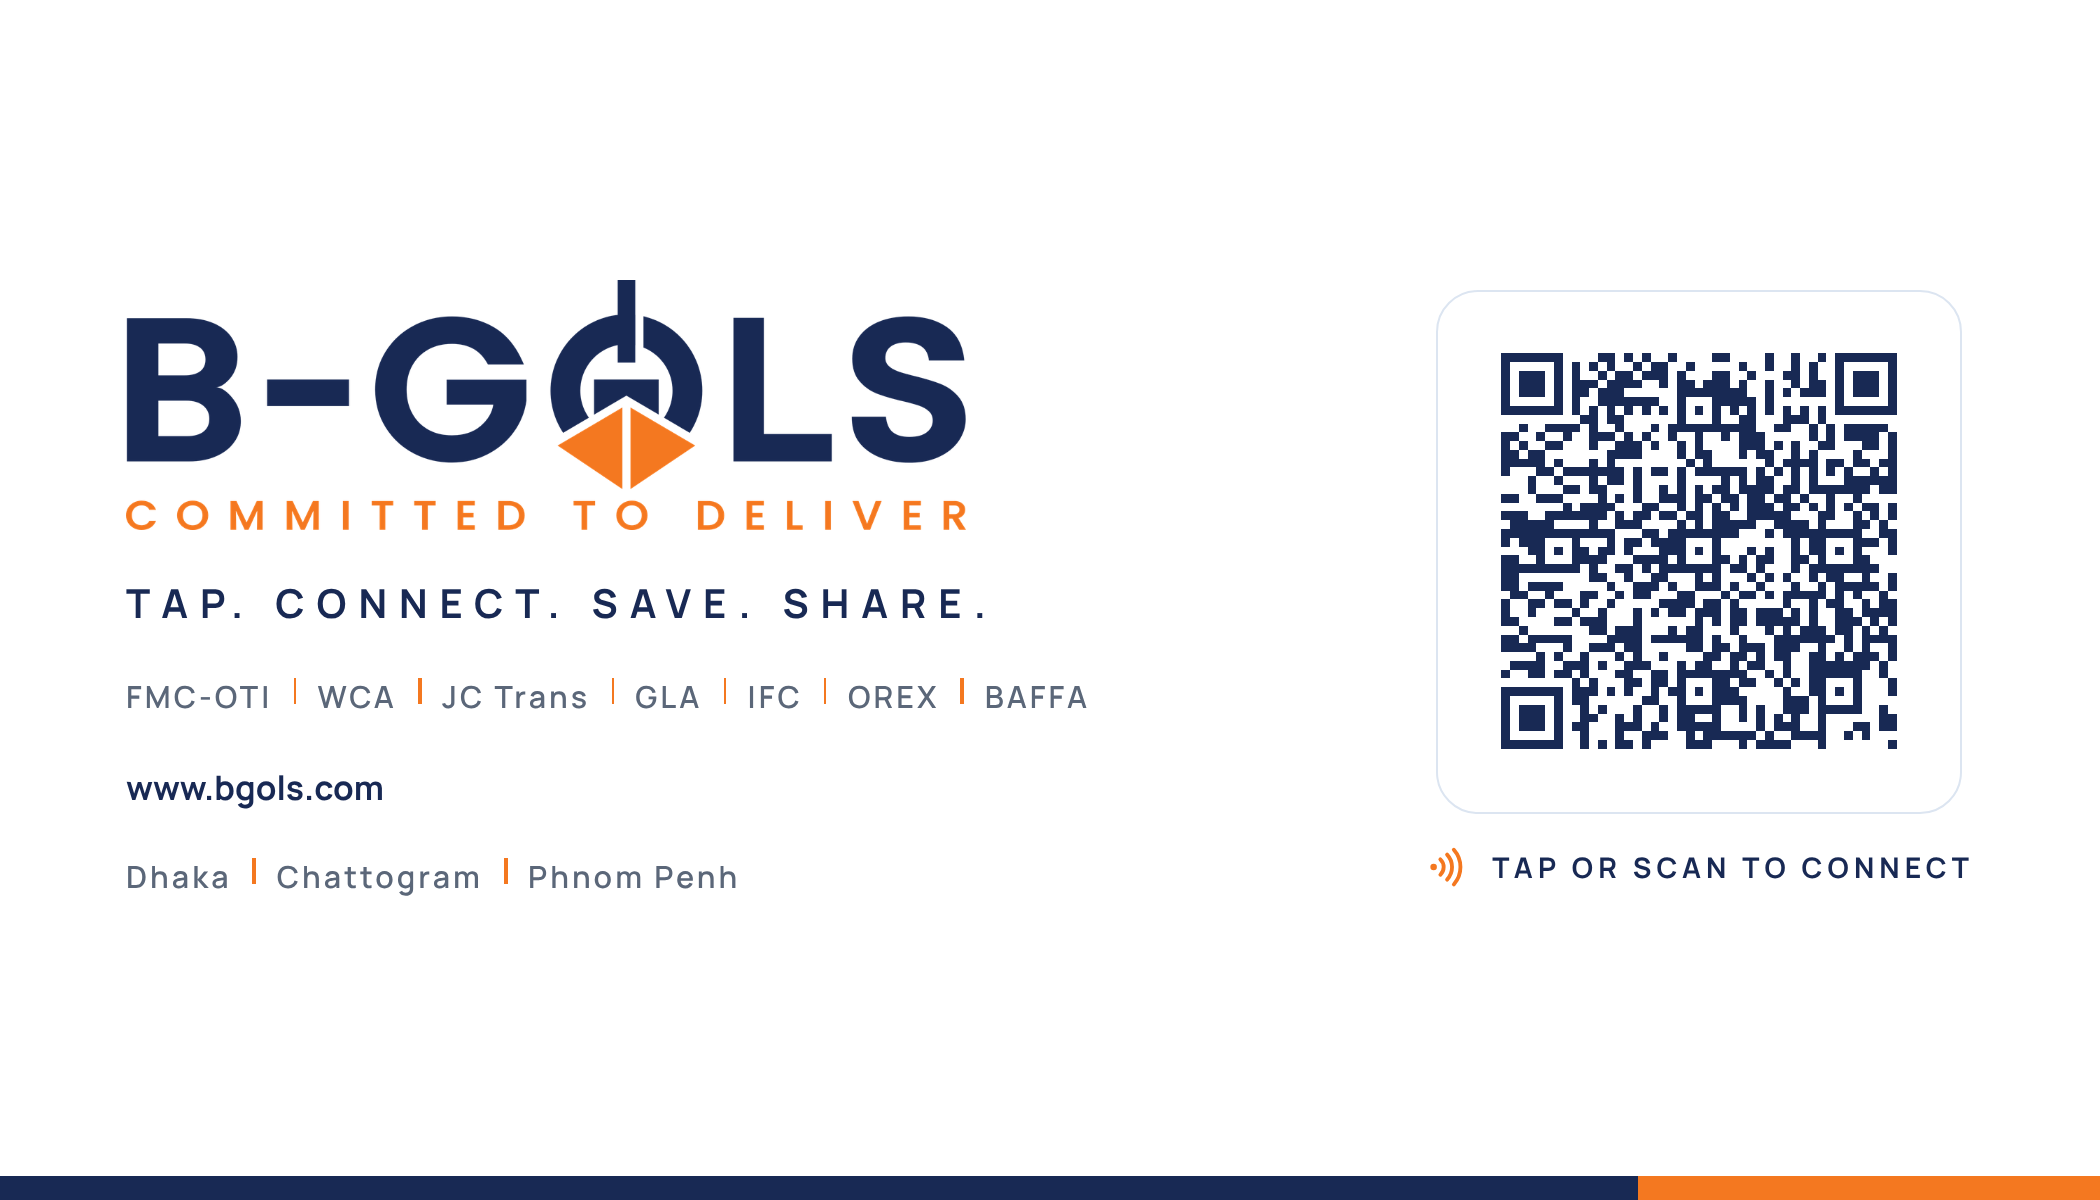
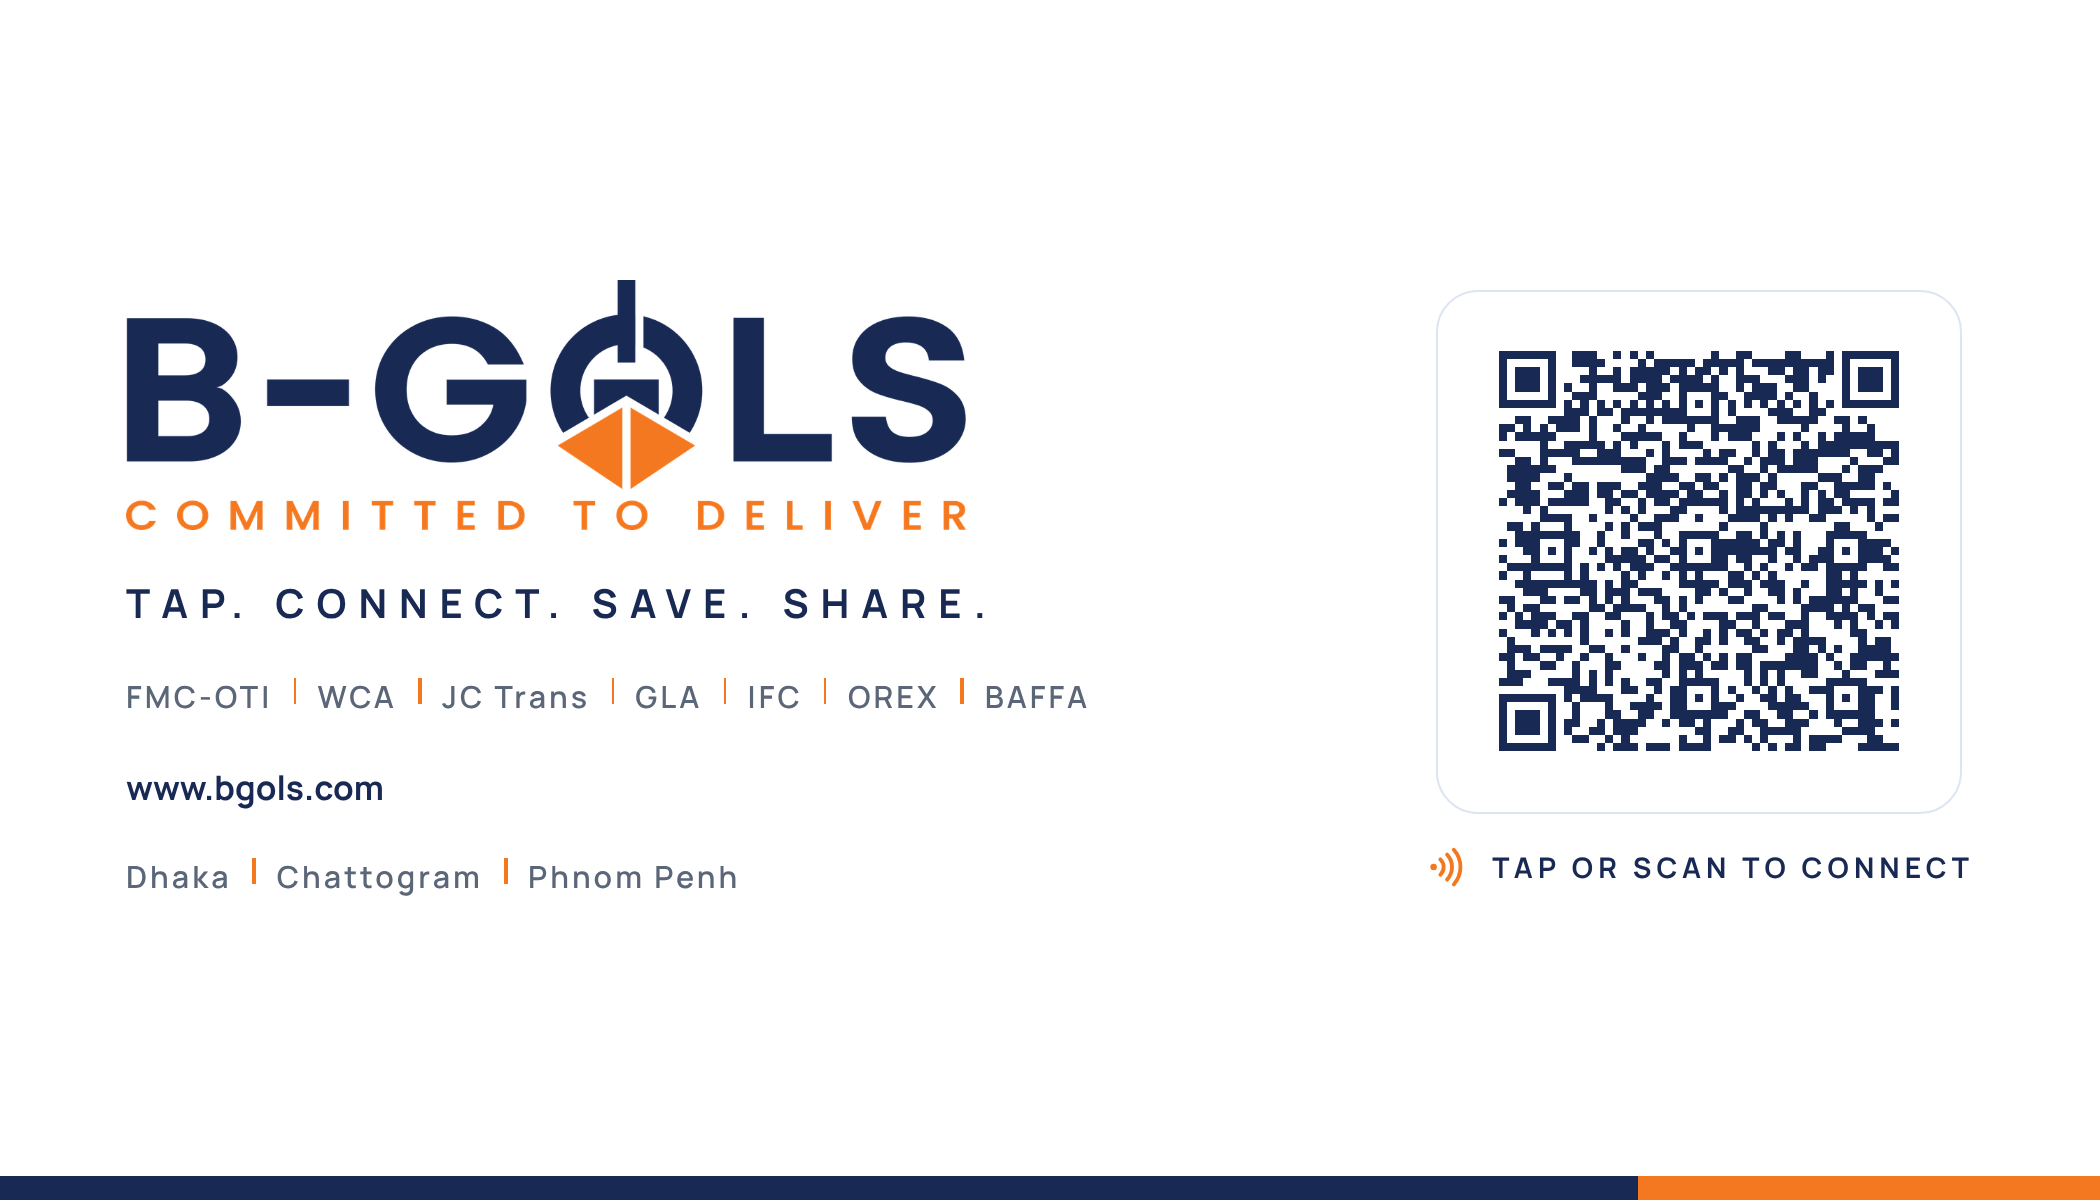
Move to bgols-limited.github.io: new QR codes, contact file, links
Claude-Session: https://claude.ai/code/session_01TprP1ieCAEd2tQhQxghHUL

Changed region(s): [[0.7119, 0.2775, 0.9286, 0.6475]]

diff --git a/index.html b/index.html
@@ -10,12 +10,12 @@
   <meta name="theme-color" content="#FFFFFF">
   <meta name="format-detection" content="telephone=no">
   <!-- build:meta (generated by scripts/build.mjs from js/config.js — do not edit by hand) -->
-  <link rel="canonical" href="https://alshams8.github.io/Business-Card-Abdullah-Al-Mohsin/">
+  <link rel="canonical" href="https://bgols-limited.github.io/Business-Card-Abdullah-Al-Mohsin/">
   <meta property="og:type" content="profile">
   <meta property="og:title" content="Abdullah Al Mohsin | Pricing &amp; Network Development Analyst | B-GOLS Limited">
   <meta property="og:description" content="Tap. Connect. Save. Share. Digital business card of Abdullah Al Mohsin, B-GOLS Limited.">
-  <meta property="og:url" content="https://alshams8.github.io/Business-Card-Abdullah-Al-Mohsin/">
-  <meta property="og:image" content="https://alshams8.github.io/Business-Card-Abdullah-Al-Mohsin/assets/exports/og-image.png">
+  <meta property="og:url" content="https://bgols-limited.github.io/Business-Card-Abdullah-Al-Mohsin/">
+  <meta property="og:image" content="https://bgols-limited.github.io/Business-Card-Abdullah-Al-Mohsin/assets/exports/og-image.png">
   <meta property="og:image:width" content="1200">
   <meta property="og:image:height" content="630">
   <meta name="twitter:card" content="summary_large_image">

diff --git a/sw.js b/sw.js
@@ -1,9 +1,9 @@
 /* Service worker: makes the card open instantly and work offline.
    Bump VERSION whenever you change any file so phones fetch the update. */
-// Cache names carry this card's own prefix: two cards share the alshams8.github.io origin,
+// Cache names carry this card's own prefix: two cards share the bgols-limited.github.io origin,
 // so each card must only ever delete its own old caches.
 const PREFIX = "mohsin-card-";
-const VERSION = PREFIX + "v8";
+const VERSION = PREFIX + "v9";
 const CORE = [
   "./", "index.html", "card.html", "nfc-setup.html", "email-signature.html", "css/styles.css", "js/config.js", "js/app.js", "contact.vcf",
   "manifest.webmanifest",

diff --git a/js/config.js b/js/config.js
@@ -6,9 +6,9 @@
  * That regenerates the QR codes, the .vcf contact file and the link-preview tags
  * so the NFC tag, QR code and contact file all point to the same address.
  *
- * GitHub Pages address of the repository alshams8/Business-Card-Abdullah-Al-Mohsin.
+ * GitHub Pages address of the repository bgols-limited/Business-Card-Abdullah-Al-Mohsin.
  * (The path is case-sensitive: keep the capital letters.)
  */
 window.CARD_CONFIG = {
-  PROFILE_URL: "https://alshams8.github.io/Business-Card-Abdullah-Al-Mohsin/"
+  PROFILE_URL: "https://bgols-limited.github.io/Business-Card-Abdullah-Al-Mohsin/"
 };

diff --git a/docs/PHONE-GUIDE.md b/docs/PHONE-GUIDE.md
@@ -1,6 +1,6 @@
 # Abdullah Al Mohsin's digital card: phone guide (Nothing CMF Phone 2 Pro, plus iPhone)
 
-Card address: **https://alshams8.github.io/Business-Card-Abdullah-Al-Mohsin/**
+Card address: **https://bgols-limited.github.io/Business-Card-Abdullah-Al-Mohsin/**
 (Keep the capital letters. The NFC tag, the QR code and the contact file all point here.)
 
 Mobile 1 **+8801335134476** (WhatsApp) · Mobile 2 **+8801766330755** (WeChat) · **abdullah.mohsin@bgols.com**
@@ -25,7 +25,7 @@ means a cheap **NFC tag**, and "tap my phone" means **NameDrop** (iPhone only).
 
 ### 1. Put the card on the Home screen (1 minute)
 
-1. Open **Chrome** and go to **https://alshams8.github.io/Business-Card-Abdullah-Al-Mohsin/**
+1. Open **Chrome** and go to **https://bgols-limited.github.io/Business-Card-Abdullah-Al-Mohsin/**
    (the page must have finished loading).
 2. Tap **⋮** (top right) › **Add to home screen**.
 3. Chrome asks **Install** or **Create shortcut**. Either works:
@@ -53,12 +53,12 @@ If nothing appears at all:
 
 - Open the card from the Home screen and tap the **QR** button (bottom right of the card), or **Show QR side**.
 - The other person points their camera at it. Any iPhone or Android camera opens the card.
-- Optional: the address with **#qr** at the end opens the QR side directly. Save **https://alshams8.github.io/Business-Card-Abdullah-Al-Mohsin/#qr** as a second Home screen shortcut called "My QR" if he likes.
+- Optional: the address with **#qr** at the end opens the QR side directly. Save **https://bgols-limited.github.io/Business-Card-Abdullah-Al-Mohsin/#qr** as a second Home screen shortcut called "My QR" if he likes.
 
 ### 4. NFC tag (works for iPhone and Android visitors)
 
 1. Buy blank **NTAG215** cards or **NTAG213** stickers.
-2. Easiest on Android: open **https://alshams8.github.io/Business-Card-Abdullah-Al-Mohsin/nfc-setup.html** in **Chrome**,
+2. Easiest on Android: open **https://bgols-limited.github.io/Business-Card-Abdullah-Al-Mohsin/nfc-setup.html** in **Chrome**,
    tap **Write to NFC tag**, and hold the tag against the **middle of the back** of the phone.
    (Or use the free **NFC Tools** app: **Write › Add a record › URL / URI** › paste the card address › **Write**.)
 3. NFC on his phone: **Settings › Connected devices › Connection preferences › NFC** must be on
@@ -81,7 +81,7 @@ Tip: put the sticker on the back of his phone case. Other people then tap **his 
 
 ### 1. Put the card on the Home Screen (1 minute)
 
-1. Open **https://alshams8.github.io/Business-Card-Abdullah-Al-Mohsin/** in **Safari** (not Chrome).
+1. Open **https://bgols-limited.github.io/Business-Card-Abdullah-Al-Mohsin/** in **Safari** (not Chrome).
 2. Tap the **Share** button (square with an arrow), scroll down, tap **Add to Home Screen**, then **Add**.
 3. The icon "A. Al Mohsin" now opens the card like an app, also offline.
 
@@ -114,7 +114,7 @@ NameDrop sends only the name, chosen numbers or email, and the Contact Poster. T
 ### 5. Optional: QR in one double tap
 
 - **Shortcuts** app › **+** › **Add Action** › **Open URLs** › enter
-  **https://alshams8.github.io/Business-Card-Abdullah-Al-Mohsin/#qr** › name it "My QR".
+  **https://bgols-limited.github.io/Business-Card-Abdullah-Al-Mohsin/#qr** › name it "My QR".
 - **Settings › Accessibility › Touch › Back Tap › Double Tap** › **My QR**.
   A double tap on the back of the iPhone now opens the card already flipped to the QR side.
 

diff --git a/docs/DEPLOYMENT.md b/docs/DEPLOYMENT.md
@@ -5,10 +5,10 @@ The card is a folder of static files. Any HTTPS static host works. The address y
 
 ## Option 1: GitHub Pages (free, fastest)
 
-1. Public repository on GitHub: `alshams8/Business-Card-Abdullah-Al-Mohsin`.
+1. Public repository on GitHub: `bgols-limited/Business-Card-Abdullah-Al-Mohsin`.
 2. Upload the contents of this folder (or `git push`). `node_modules/` is not needed.
 3. Repository → **Settings → Pages** → Source: *Deploy from a branch* → Branch `main`, folder `/ (root)` → Save.
-4. After ~1 minute the site is at `https://alshams8.github.io/Business-Card-Abdullah-Al-Mohsin/`, the address
+4. After ~1 minute the site is at `https://bgols-limited.github.io/Business-Card-Abdullah-Al-Mohsin/`, the address
    already in `js/config.js`, so nothing needs regenerating.
 5. Tick **Enforce HTTPS** (on by default for `github.io`).
 
@@ -26,7 +26,7 @@ It needs B-GOLS IT (whoever manages the `bgols.com` DNS):
 
 1. Host the folder on any of the options above, inside a sub-folder `mohsin/`
    (e.g. repository `card`, files in `mohsin/`).
-2. DNS: add a **CNAME** record `card` → `alshams8.github.io` (GitHub) or the Netlify/Cloudflare target.
+2. DNS: add a **CNAME** record `card` → `bgols-limited.github.io` (GitHub) or the Netlify/Cloudflare target.
 3. GitHub Pages: Settings → Pages → *Custom domain* `card.bgols.com` → wait for the certificate → *Enforce HTTPS*.
 4. Open `https://card.bgols.com/mohsin/` in a browser and check the padlock **before** writing tags.
 5. Set `PROFILE_URL` to `https://card.bgols.com/mohsin/`, run the build, redeploy.

diff --git a/README.md b/README.md
@@ -3,7 +3,7 @@
 **TAP. CONNECT. SAVE. SHARE.**
 Pricing & Network Development Analyst | B-GOLS Limited
 
-Live at **https://alshams8.github.io/Business-Card-Abdullah-Al-Mohsin/** (GitHub Pages, branch `main`, folder `/`).
+Live at **https://bgols-limited.github.io/Business-Card-Abdullah-Al-Mohsin/** (GitHub Pages, branch `main`, folder `/`).
 Phone guide for iPhone and Android (home screen, save contact, My Card, NameDrop/AirDrop, QR, NFC tag, Quick Share): see [`docs/PHONE-GUIDE.md`](docs/PHONE-GUIDE.md).
 
 A lightweight, installable web app (PWA) that works as a digital business card. One permanent
@@ -11,7 +11,7 @@ HTTPS address is shared four ways: an **NFC tag**, a **QR code**, a **link**, an
 **native share sheet**. Visitors can call, WhatsApp, WeChat, email, open the company website, get directions to the Dhaka, Chattogram and Phnom Penh offices and
 **save the contact (.vcf)**. No app, login, tracking or data collection.
 
-> Built from the same template as https://alshams8.github.io/digital-card/ .
+> Built from the same template as https://bgols-limited.github.io/digital-card/ .
 > `js/config.js` holds the address. After changing it, run `node scripts/build.mjs`.
 
 ---

diff --git a/docs/TEST-REPORT.md b/docs/TEST-REPORT.md
@@ -10,7 +10,7 @@ Tested in headless Chromium with the iPhone 13 (390 × 844) and Galaxy S9+ (320 
 | `mailto:` link: abdullah.mohsin@bgols.com | Pass |
 | WhatsApp link `wa.me/8801335134476` (Mobile 1, as marked on his printed card) | Pass |
 | WeChat sheet shows +8801766330755 (Mobile 2, as marked on his printed card) with Copy | Pass |
-| QR codes (SVG/PNG, navy/black, portrait card back, landscape card back) decode to `https://alshams8.github.io/Business-Card-Abdullah-Al-Mohsin/` | Pass (zxing-cpp) |
+| QR codes (SVG/PNG, navy/black, portrait card back, landscape card back) decode to `https://bgols-limited.github.io/Business-Card-Abdullah-Al-Mohsin/` | Pass (zxing-cpp) |
 | `contact.vcf`: vCard 3.0, CRLF, lines ≤ 75 octets, two mobile numbers, one email, three labelled office addresses, embedded 256 px photo | Pass |
 | card.html, nfc-setup.html, email-signature.html, manifest, sw.js load | Pass |
 
